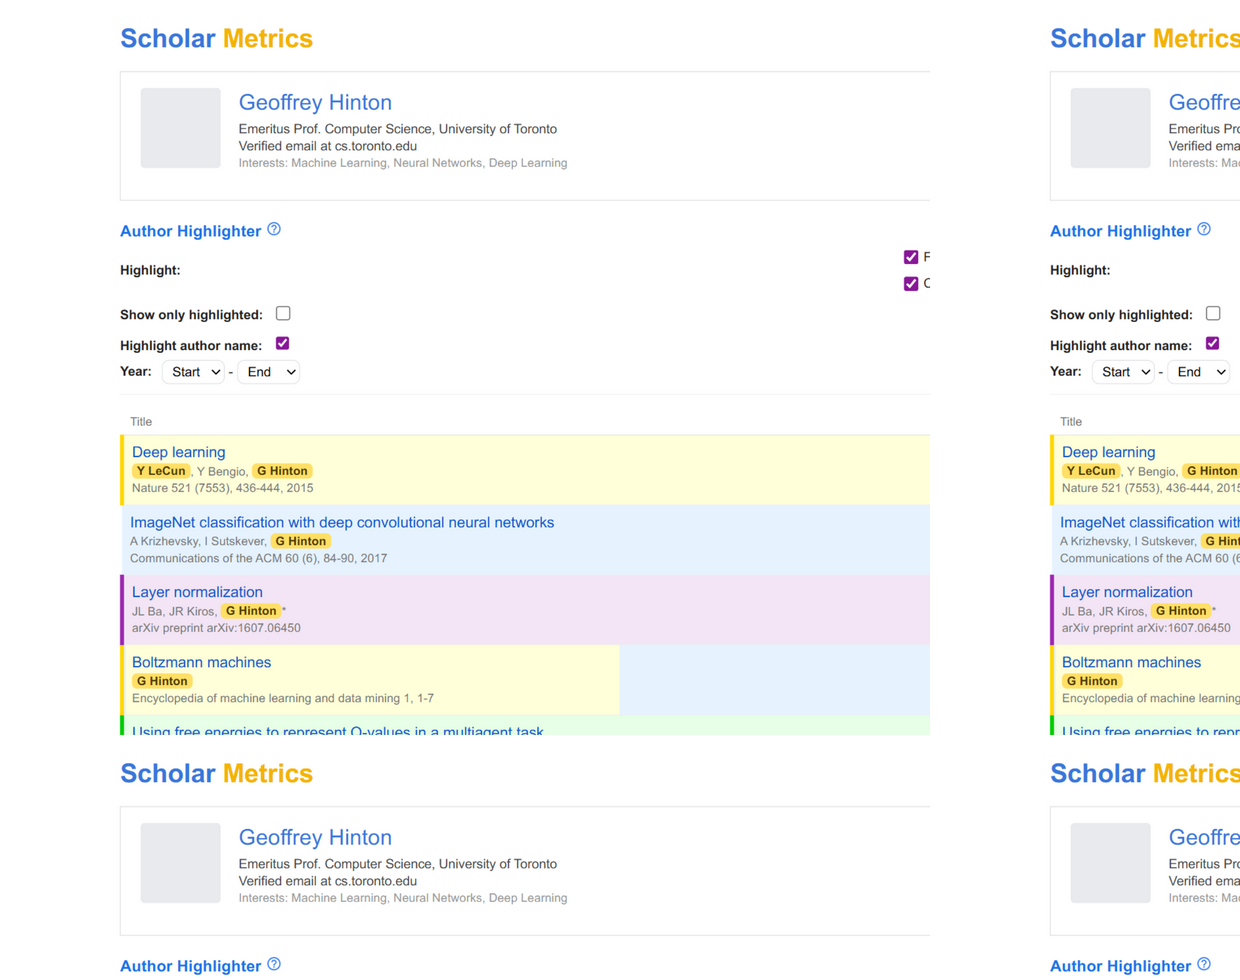
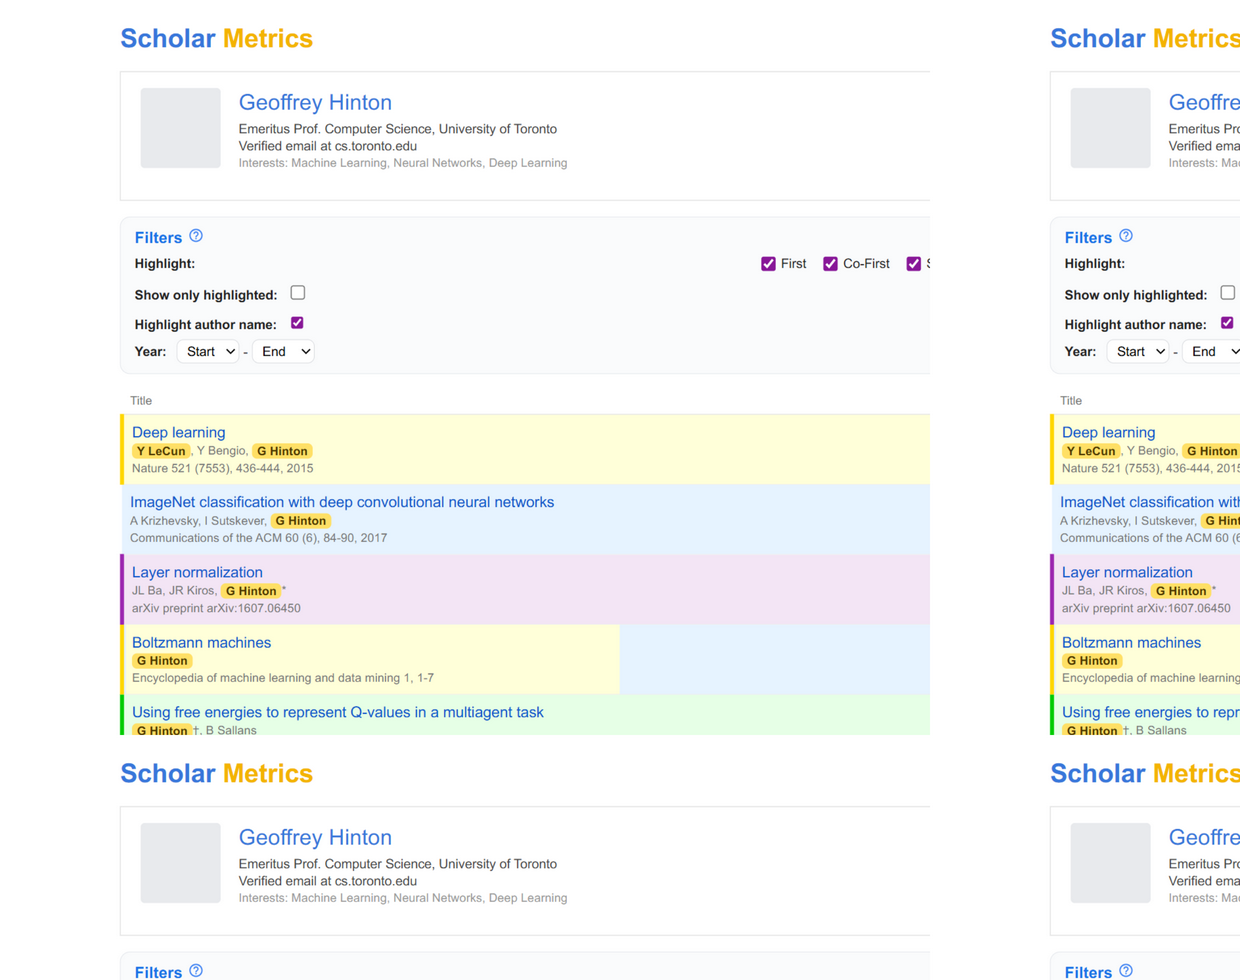
v1.0.1: stop auto-expanding publications, compact Filters panel with thin border, fix overflow

diff --git a/zen/src/content/modules/uiManager.js b/zen/src/content/modules/uiManager.js
@@ -9,7 +9,7 @@ window.uiManager = (function () {
 
     const filterHTML = `
       <div id="author-highlighter-controls" class="author-highlighter-controls">
-        <h3><span class="title-container">Author Highlighter<span class="info-icon" data-tooltip="Co-first: Beginning authors marked with symbols (* † ‡ § # ✉).&#10;Corresponding: Non-beginning authors marked with symbols (* † ‡ § # ✉)."><svg focusable="false" width="16" height="16" viewBox="0 0 24 24" class=" NMm5M" style="fill: currentColor"><path d="M11 18h2v-2h-2v2zm1-16C6.48 2 2 6.48 2 12s4.48 10 10 10 10-4.48 10-10S17.52 2 12 2zm0 18c-4.41 0-8-3.59-8-8s3.59-8 8-8 8 3.59 8 8-3.59 8-8 8zm0-14c-2.21 0-4 1.79-4 4h2c0-1.1.9-2 2-2s2 .9 2 2c0 2-3 1.75-3 5h2c0-2.25 3-2.5 3-5 0-2.21-1.79-4-4-4z"></path></svg></span></span></h3>
+        <h3><span class="title-container">Filters<span class="info-icon" data-tooltip="Co-first: Beginning authors marked with symbols (* † ‡ § # ✉).&#10;Corresponding: Non-beginning authors marked with symbols (* † ‡ § # ✉)."><svg focusable="false" width="16" height="16" viewBox="0 0 24 24" class=" NMm5M" style="fill: currentColor"><path d="M11 18h2v-2h-2v2zm1-16C6.48 2 2 6.48 2 12s4.48 10 10 10 10-4.48 10-10S17.52 2 12 2zm0 18c-4.41 0-8-3.59-8-8s3.59-8 8-8 8 3.59 8 8-3.59 8-8 8zm0-14c-2.21 0-4 1.79-4 4h2c0-1.1.9-2 2-2s2 .9 2 2c0 2-3 1.75-3 5h2c0-2.25 3-2.5 3-5 0-2.21-1.79-4-4-4z"></path></svg></span></span></h3>
         <div class="filter-container">
           <label>Highlight:</label>
           <div class="filter-options">

diff --git a/report/preview/scholar-mock.html b/report/preview/scholar-mock.html
@@ -40,7 +40,7 @@
   </div>
 
   <div id="author-highlighter-controls" class="author-highlighter-controls">
-    <h3><span class="title-container">Author Highlighter<span class="info-icon" data-tooltip="Co-first: Beginning authors marked with symbols (* † ‡ § # ✉).&#10;Corresponding: Non-beginning authors marked with symbols (* † ‡ § # ✉)."><svg focusable="false" width="16" height="16" viewBox="0 0 24 24" style="fill: currentColor"><path d="M11 18h2v-2h-2v2zm1-16C6.48 2 2 6.48 2 12s4.48 10 10 10 10-4.48 10-10S17.52 2 12 2zm0 18c-4.41 0-8-3.59-8-8s3.59-8 8-8 8 3.59 8 8-3.59 8-8 8zm0-14c-2.21 0-4 1.79-4 4h2c0-1.1.9-2 2-2s2 .9 2 2c0 2-3 1.75-3 5h2c0-2.25 3-2.5 3-5 0-2.21-1.79-4-4-4z"></path></svg></span></span></h3>
+    <h3><span class="title-container">Filters<span class="info-icon" data-tooltip="Co-first: Beginning authors marked with symbols (* † ‡ § # ✉).&#10;Corresponding: Non-beginning authors marked with symbols (* † ‡ § # ✉)."><svg focusable="false" width="16" height="16" viewBox="0 0 24 24" style="fill: currentColor"><path d="M11 18h2v-2h-2v2zm1-16C6.48 2 2 6.48 2 12s4.48 10 10 10 10-4.48 10-10S17.52 2 12 2zm0 18c-4.41 0-8-3.59-8-8s3.59-8 8-8 8 3.59 8 8-3.59 8-8 8zm0-14c-2.21 0-4 1.79-4 4h2c0-1.1.9-2 2-2s2 .9 2 2c0 2-3 1.75-3 5h2c0-2.25 3-2.5 3-5 0-2.21-1.79-4-4-4z"></path></svg></span></span></h3>
     <div class="filter-container">
       <label>Highlight:</label>
       <div class="filter-options">

diff --git a/zen/styles/highlight.css b/zen/styles/highlight.css
@@ -58,16 +58,18 @@
 }
 
 .author-highlighter-controls {
-  background: transparent;
-  border: none;
-  border-bottom: 1px solid #eee;
-  border-radius: 0;
-  padding: 4px 0 10px;
+  background: #fafbfc;
+  border: 1px solid #e4e7ec;
+  border-radius: 10px;
+  padding: 10px 14px;
   margin-bottom: 14px;
   position: relative;
   z-index: 1000;
   font-size: 14px;
   line-height: 1.3;
+  box-sizing: border-box;
+  max-width: 100%;
+  overflow-x: hidden;
 }
 
 .author-highlighter-controls h3 {
@@ -111,13 +113,14 @@
 }
 
 .filter-options {
-  display: grid;
-  grid-template-columns: max-content max-content max-content;
-  gap: 8px 12px;
+  display: flex;
+  flex-wrap: wrap;
+  gap: 6px 14px;
   align-items: center;
   margin-left: 6px;
   margin-right: 8px;
-  /* Removed max-width constraint to allow content to fit */
+  max-width: 100%;
+  min-width: 0;
 }
 
 .filter-options div {
@@ -149,13 +152,14 @@
 }
 
 .highlighted-cited-by {
-  background: transparent;
-  border: none;
-  border-top: 1px solid #eee;
-  border-radius: 0;
-  padding: 10px 0 4px;
+  background: #fafbfc;
+  border: 1px solid #e4e7ec;
+  border-radius: 10px;
+  padding: 10px 14px;
   margin-top: 12px;
   font-size: 14px;
+  box-sizing: border-box;
+  max-width: 100%;
 }
 
 .highlighted-cited-by h4 {

diff --git a/zen/src/popup/popup.html b/zen/src/popup/popup.html
@@ -21,7 +21,7 @@
   </header>
 
   <footer class="footer">
-    <span id="version-label">v1.0.0</span>
+    <span id="version-label">v1.0.1</span>
     <span class="footer-sep" aria-hidden="true">·</span>
     <span>Zen / Firefox port</span>
   </footer>
